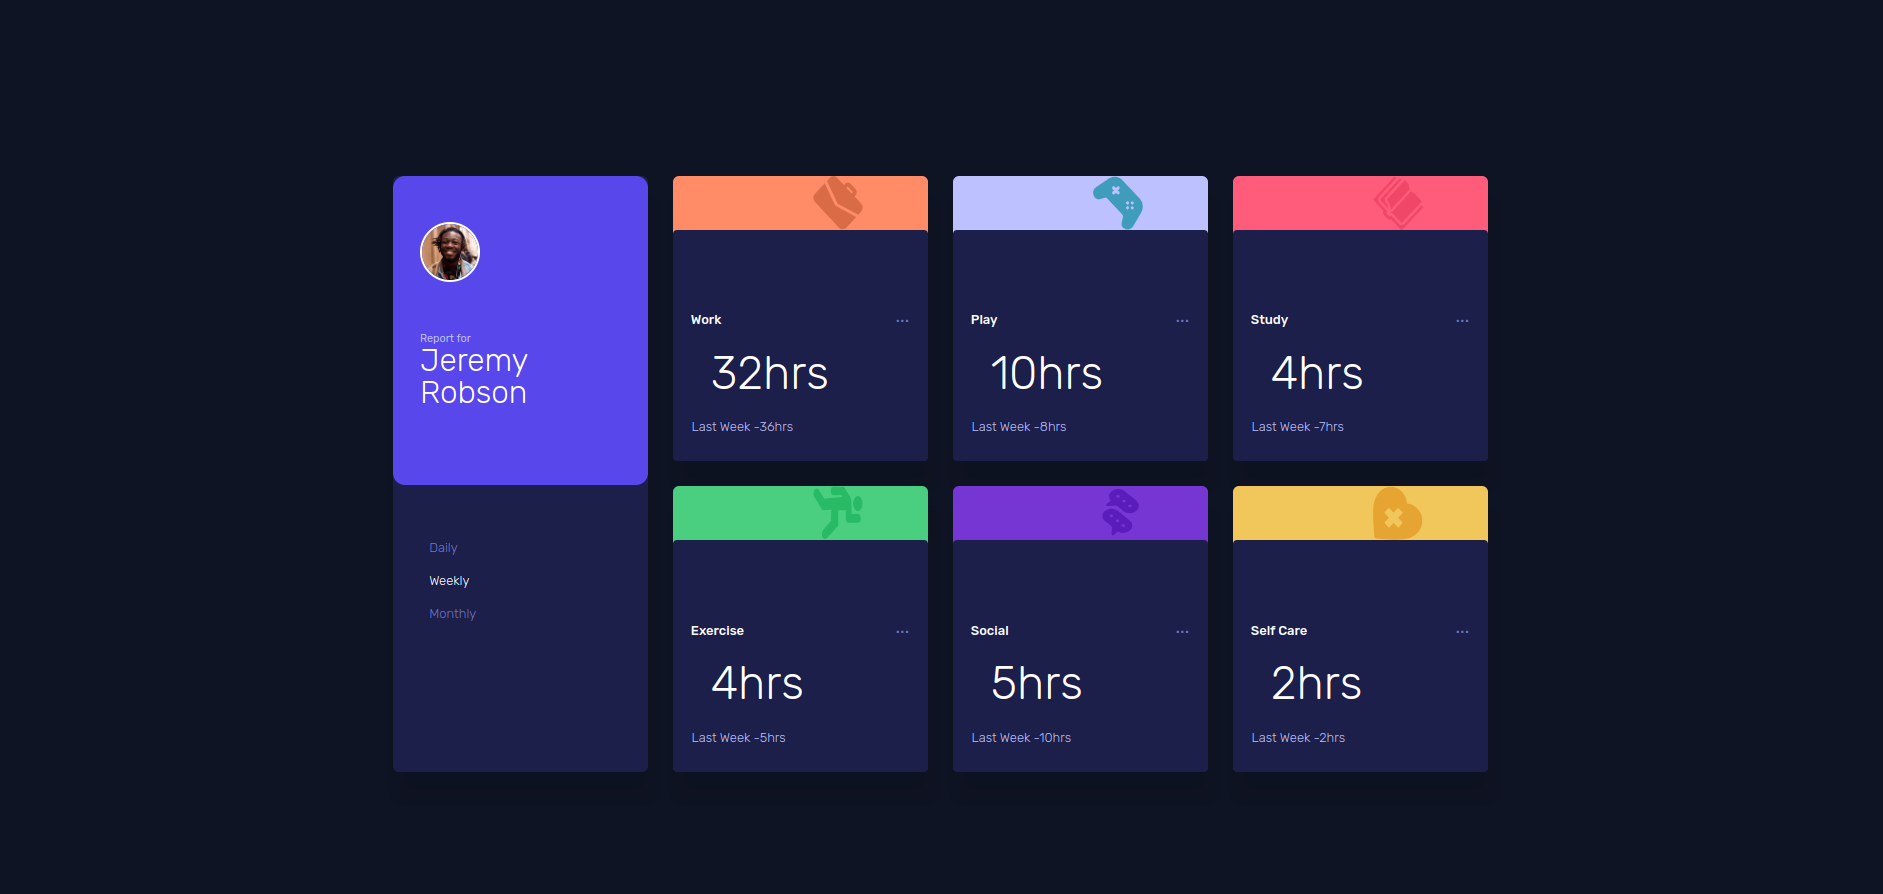
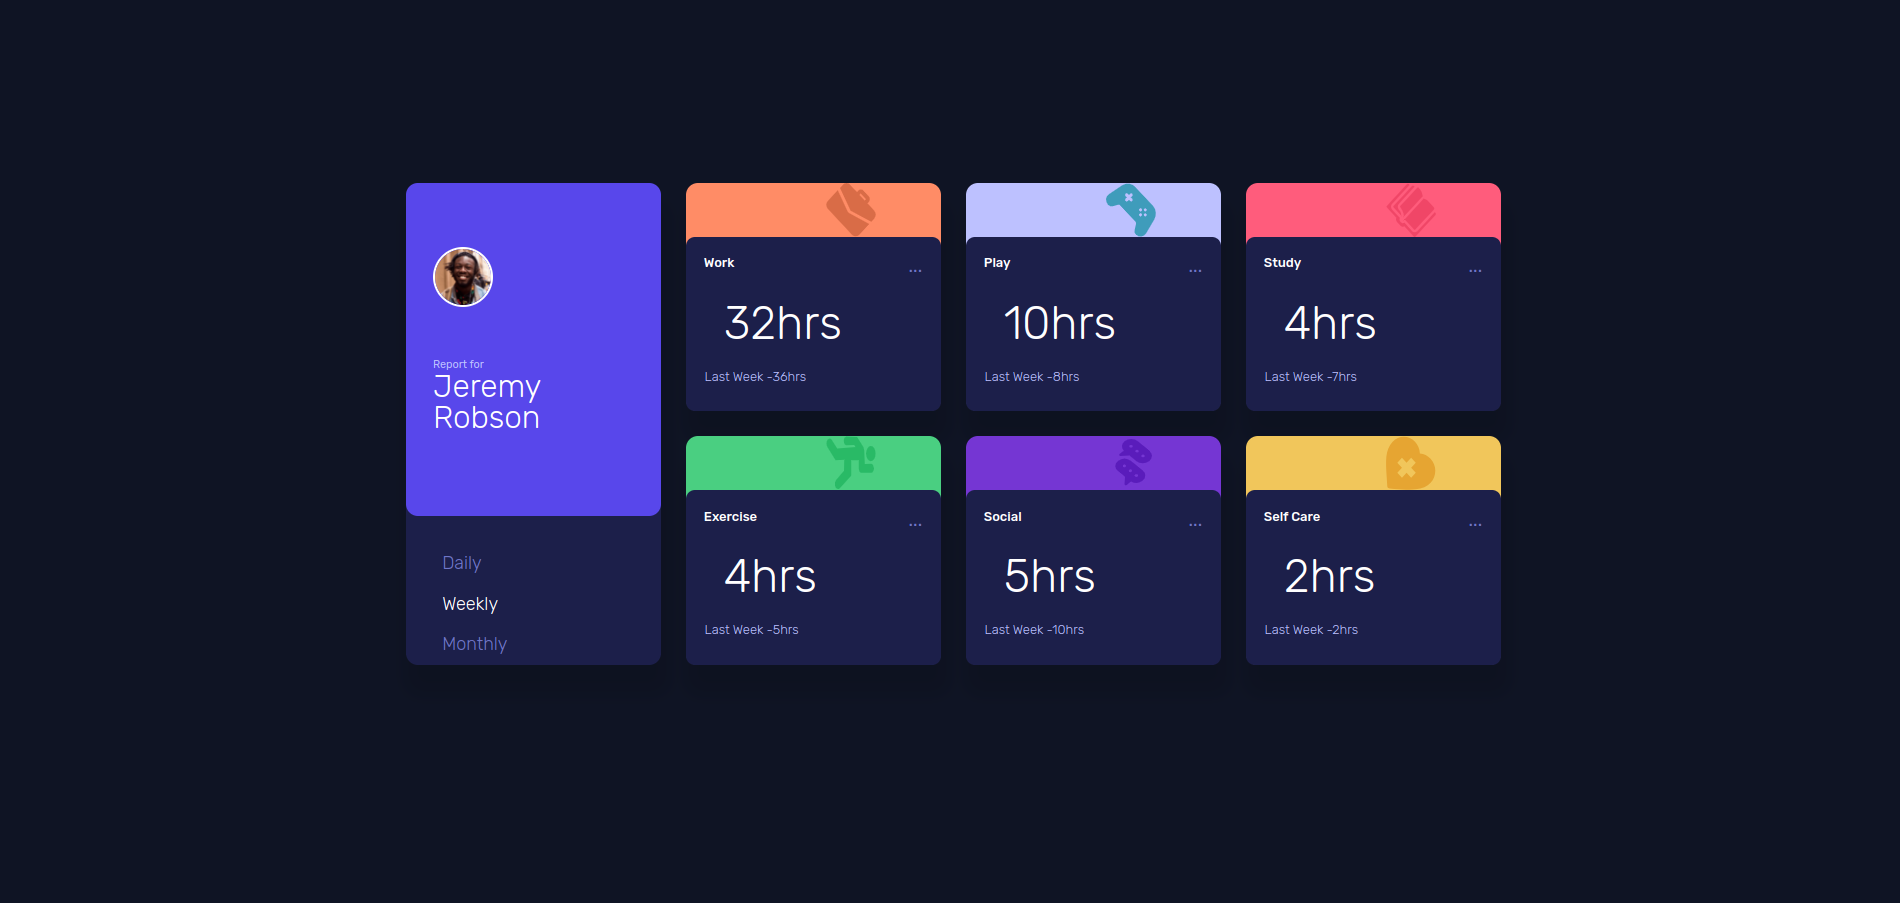
update to border-radius

Changed region(s): [[0.1848, 0.1812, 0.8008, 0.8758]]

diff --git a/src/scss/GridLayout.scss b/src/scss/GridLayout.scss
@@ -22,7 +22,7 @@
         grid-auto-flow: row;
 
         &>* {
-            border-radius: 6px;
+            border-radius: 12px;
         }
 
         // Profile Container big box
@@ -41,8 +41,8 @@
             .person_details {
                 background: $blue;
                 border-radius: 12px;
-                padding: 14vh 3vh 4vw;
-                margin-bottom: 1em;
+                padding: 7vh 3vh 9vh;
+                margin-bottom: 2em;
 
                 p {
                     color: white;
@@ -69,12 +69,12 @@
                 flex-direction: column;
                 gap: 2vh;
                 background-color: $dark-blue;
-                padding: 4vh;
+                padding: 0 4vh;
 
                 p {
                     color: $desaturated-blue;
                     font-weight: $font-weight-300;
-                    font-size: 13px;
+                    // font-size: 13px;
                 }
 
                 p:hover {

diff --git a/src/scss/ActivityCard.scss b/src/scss/ActivityCard.scss
@@ -3,9 +3,7 @@
 
 .activity_container {
     background-color: $dark-blue;
-    // padding-bottom: 72px;
-    border-radius: 4px;
-    display: grid;
+    border-radius: 9px;
     grid-template-rows: 1fr 1fr;
 
     .activity_heading_flexbox {
